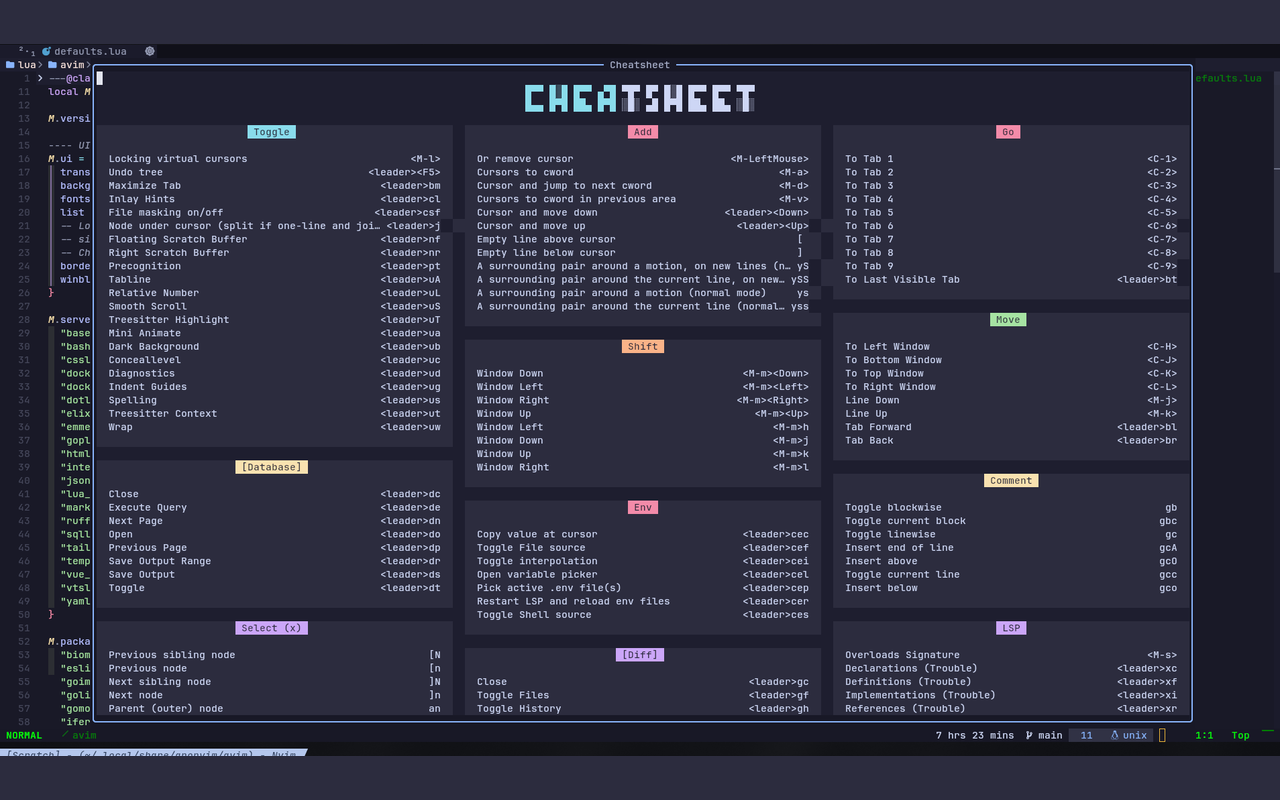
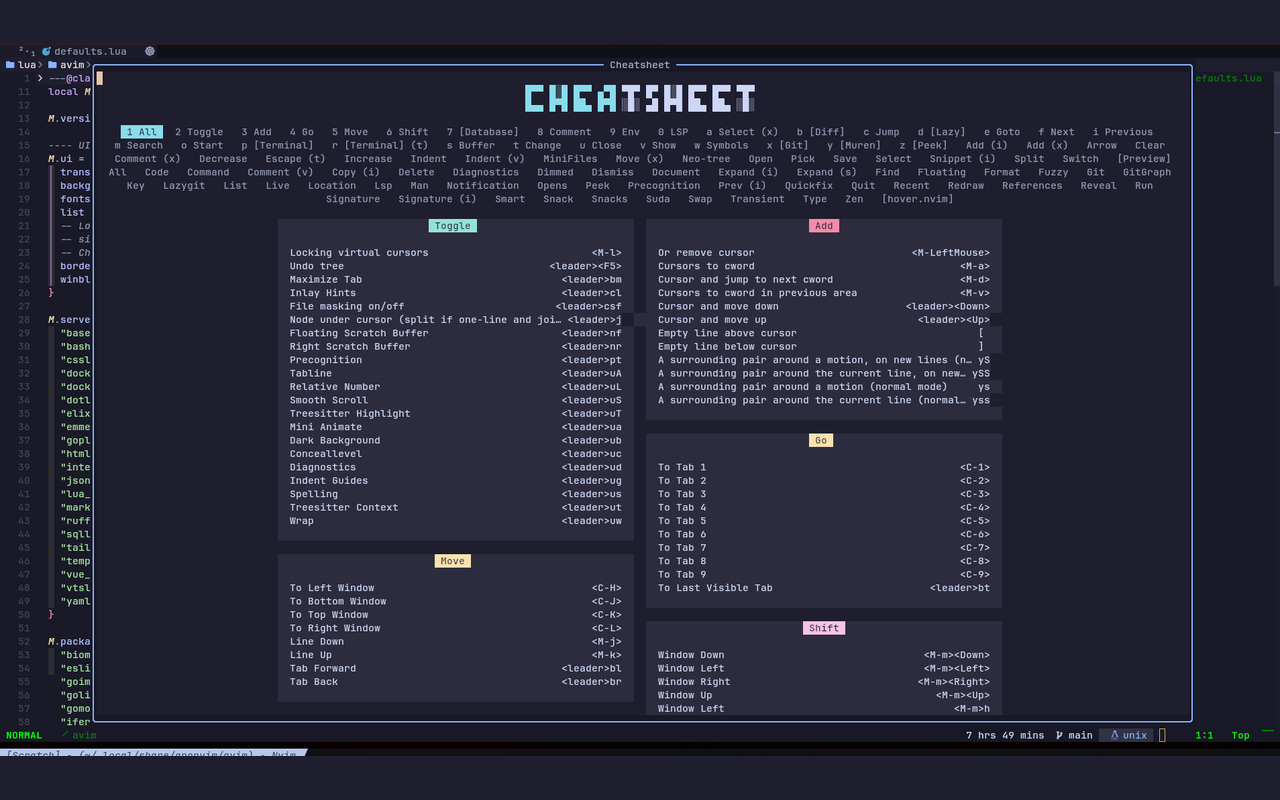
feat(ui): add section tabs to the cheatsheet

diff --git a/README.md b/README.md
@@ -264,7 +264,7 @@ Note: `<leader>` key is mapped to the `Space` key
 
 ![Fuzzy finder](.media/snacks_picker.png)
 
-**Cheatsheet** — every mapping in theme-coloured cards that reflow to the window (`:Cheatsheet`, `<leader>ch`).
+**Cheatsheet** — every mapping in theme-coloured cards that reflow to the window. A tab per section filters the sheet: press its key, or cycle with `<Tab>` (`:Cheatsheet`, `<leader>ch`).
 
 ![Cheatsheet](.media/cheatsheet.png)
 
